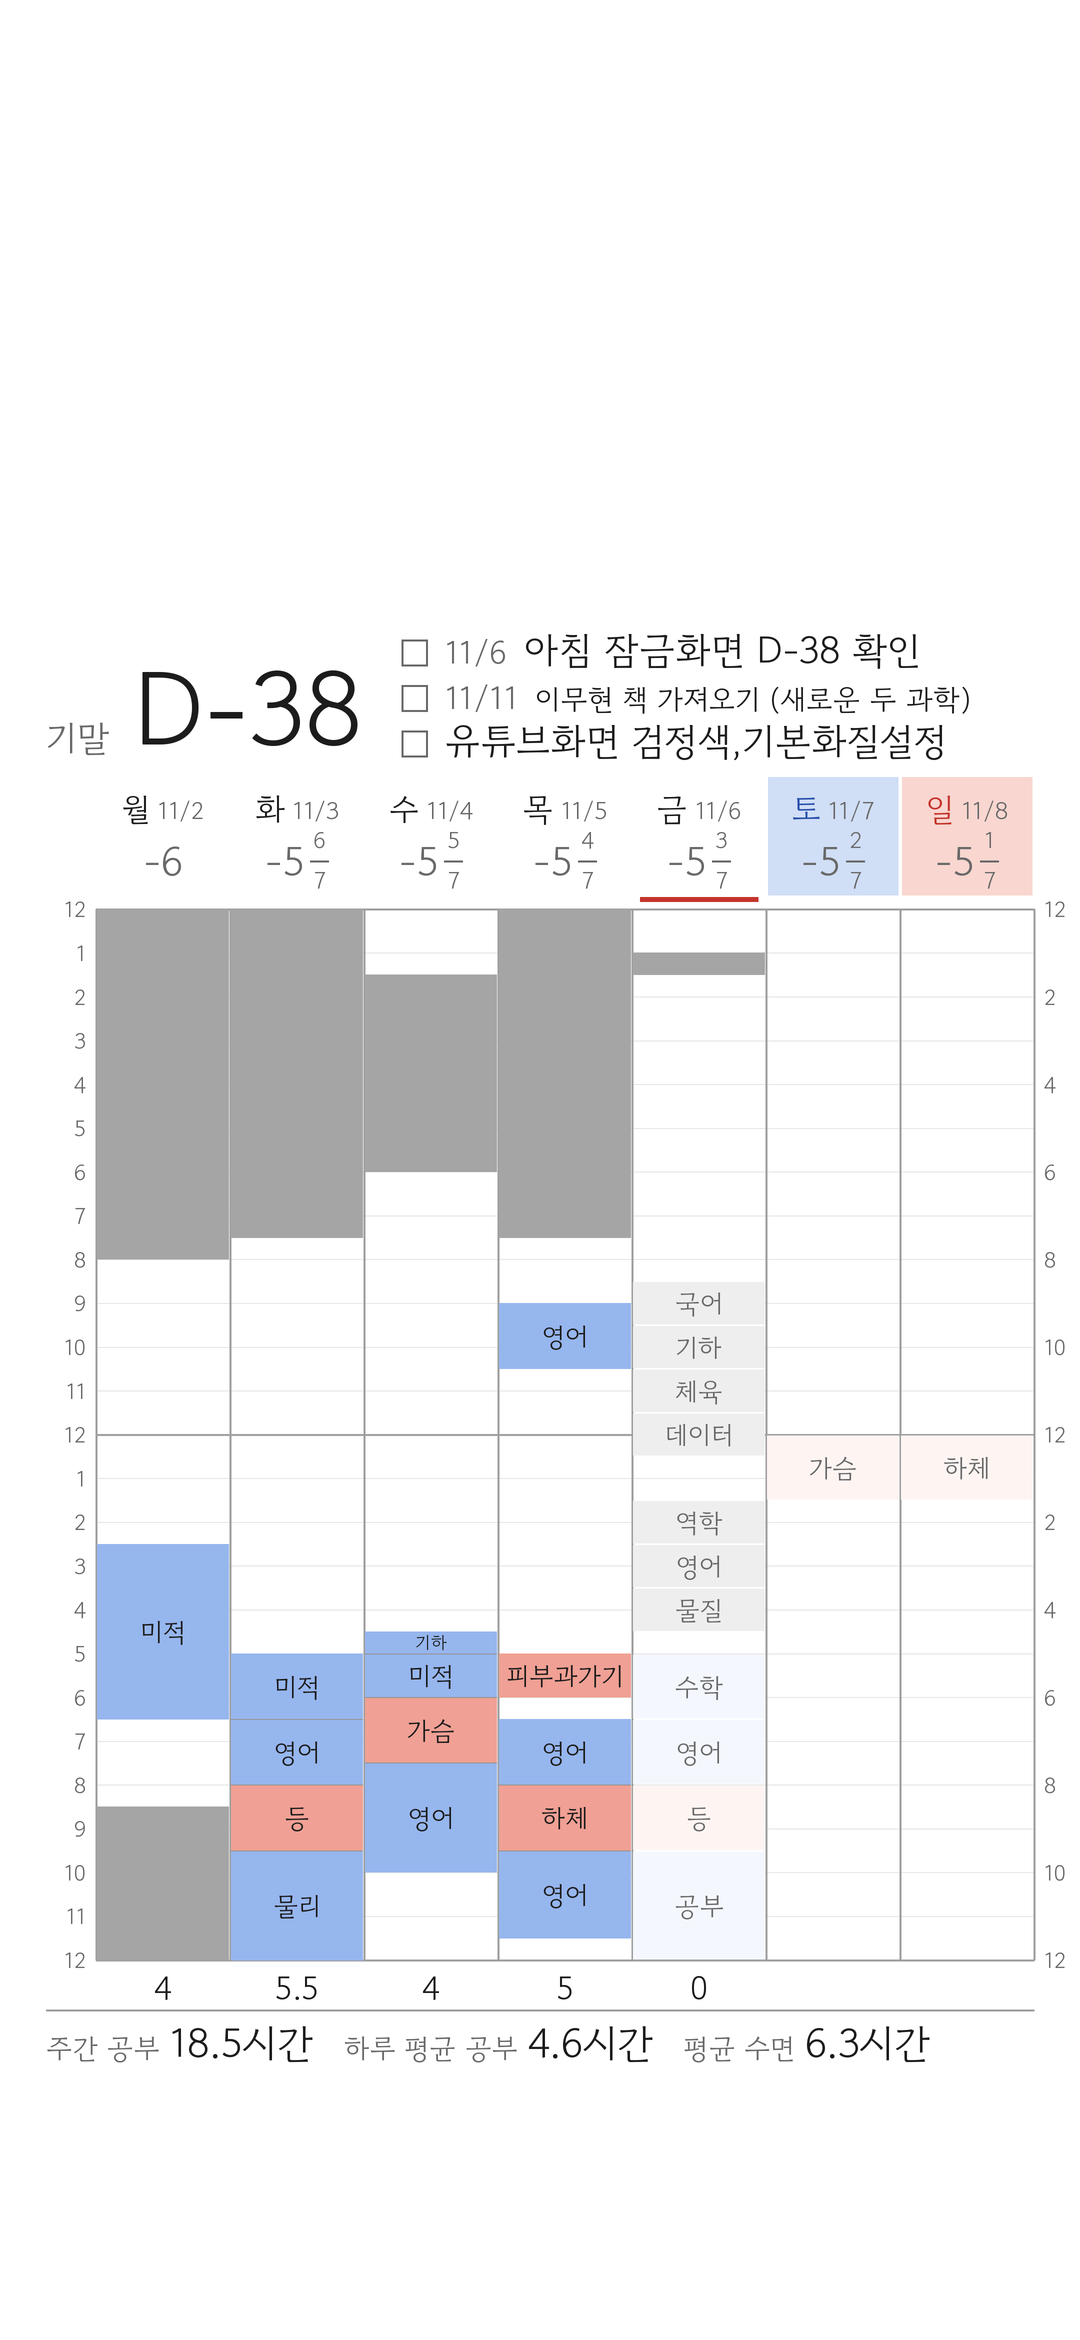
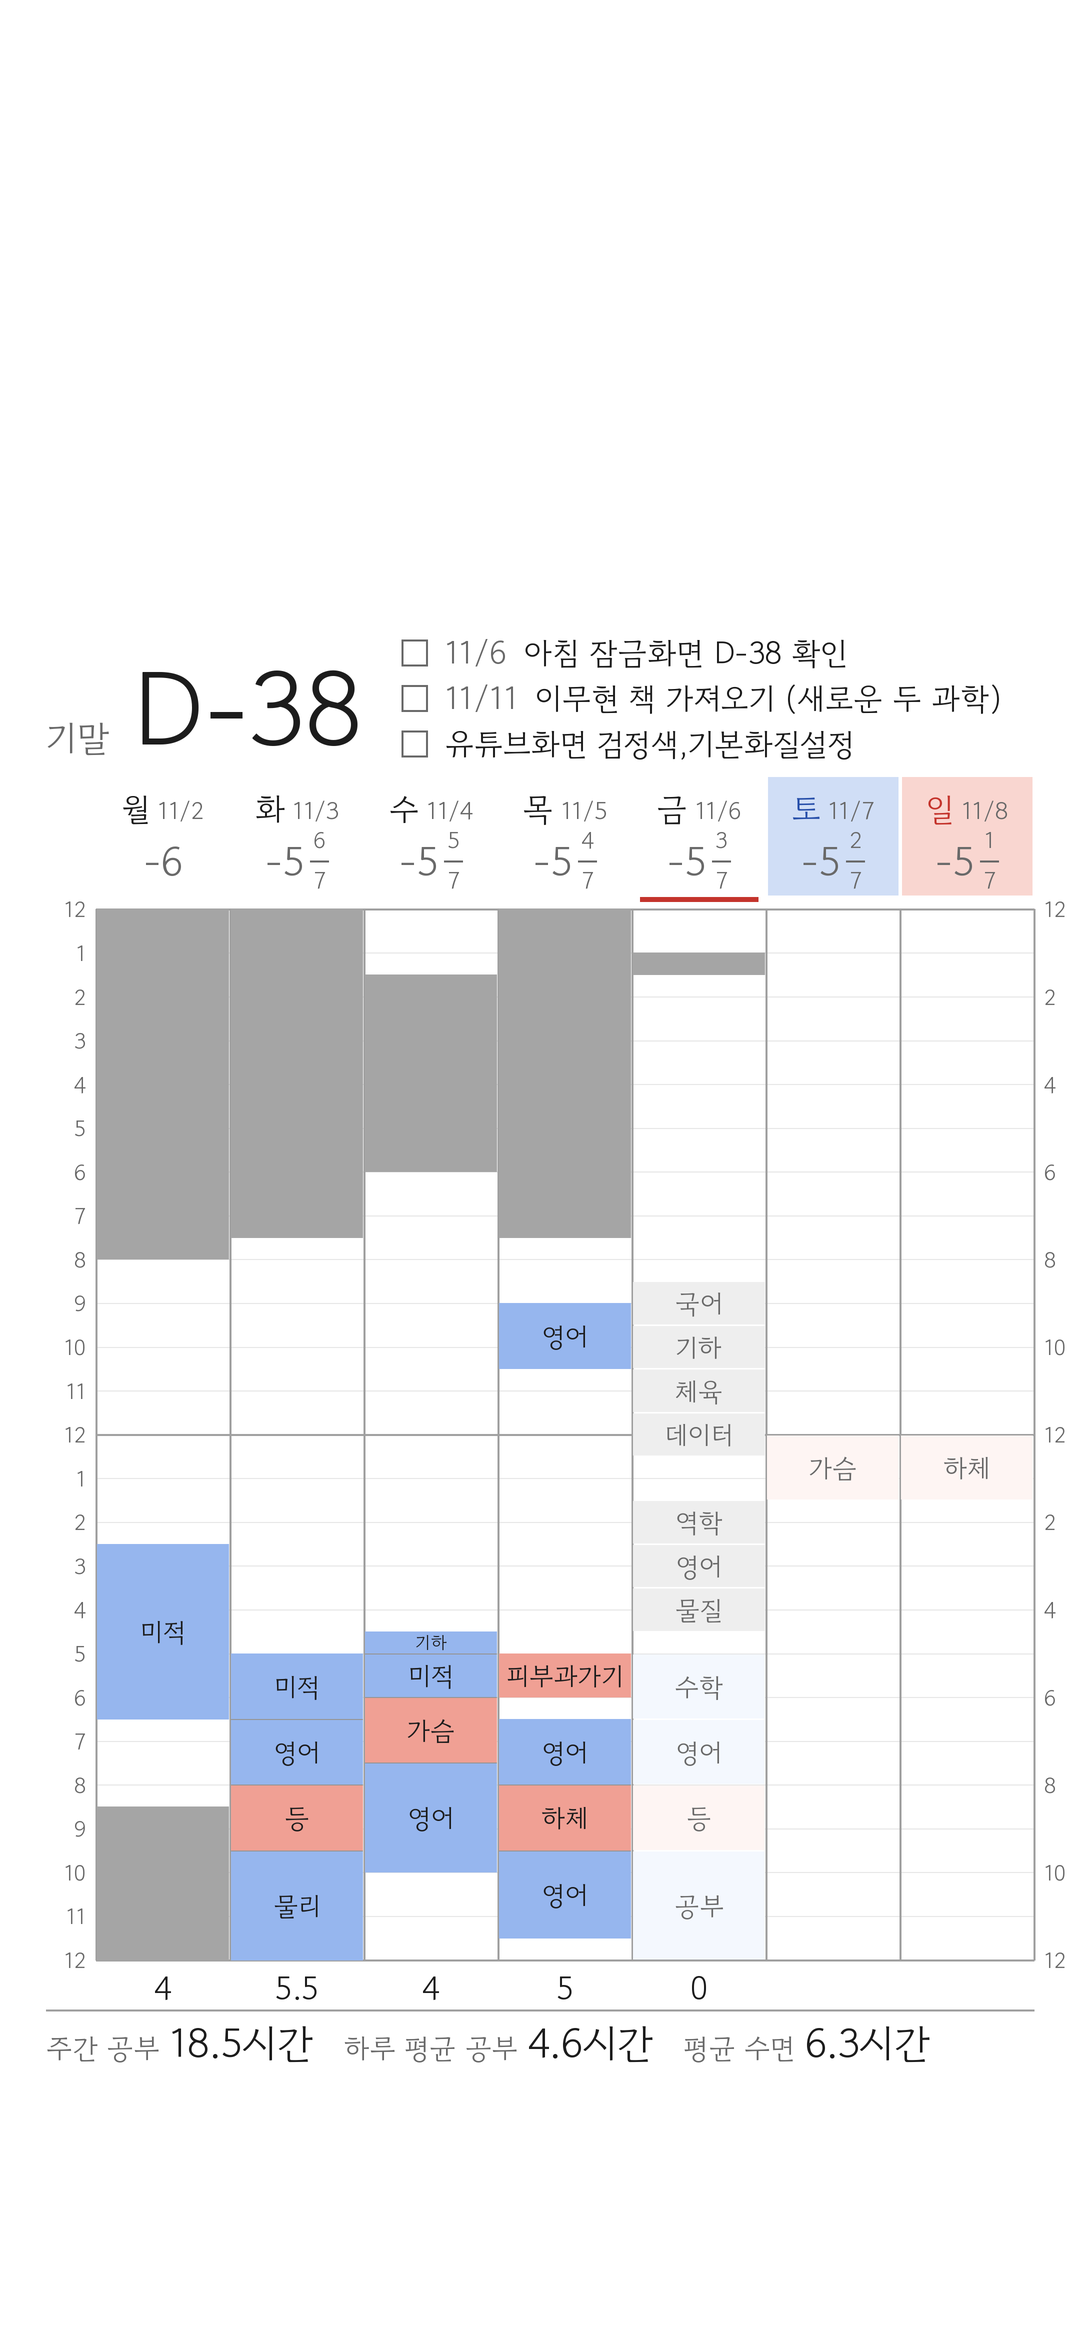
할일 글자 크기를 모든 줄 같게 통일
Claude-Session: https://claude.ai/code/session_016sgH3TiDNtMfBDqEdhxfRP

Changed region(s): [[0.4278, 0.2496, 0.9167, 0.3432]]

diff --git a/make.py b/make.py
@@ -125,7 +125,19 @@ def todo_list(g, data, today, x0, R, y, u, scale=1.0):
     fd, gap, box = font(SANS, int(27 * u * k)), 38 * u * k, 22 * u * k
     last = y + 102 * u                 # 맨 아래 줄의 글자 밑선 (3개일 때와 같은 자리)
     left = x0 + 40 * u
-    right = R - 60 * u
+    right = R - 24 * u   # 오른쪽 끝에 닿지 않을 만큼만 남긴다
+    # 모든 줄이 같은 글자 크기가 되게, 가장 긴 줄이 들어가는 크기로 통일한다.
+    def start_x(t):
+        x = left + box + 14 * u * k
+        if t["d"]:
+            d = datetime.date.fromisoformat(t["d"])
+            x += text_w(g, f"{d.month}/{d.day}", fd) + 14 * u * k
+        return x
+    size = 32 * k
+    for t in items:
+        sx = start_x(t)
+        while size > 14 and sx + text_w(g, t["t"], font(SANS, int(size * u))) > right:
+            size -= 1
     for i, t in enumerate(items):
         b = last - gap * (n - 1 - i)
         g.rectangle((left, b - box, left + box, b), outline=INK_SOFT, width=max(2, int(2 * u)))
@@ -134,11 +146,7 @@ def todo_list(g, data, today, x0, R, y, u, scale=1.0):
             d = datetime.date.fromisoformat(t["d"])
             ds = f"{d.month}/{d.day}"
             g.text((x, b), ds, font=fd, fill=INK_SOFT, anchor="ls")
-            x += text_w(g, ds, fd) + 14 * u * k
-        size = 32 * k
-        while size > 14 and x + text_w(g, t["t"], font(SANS, int(size * u))) > right:
-            size -= 1
-        g.text((x, b), t["t"], font=font(SANS, int(size * u)), fill=INK, anchor="ls")
+        g.text((start_x(t), b), t["t"], font=font(SANS, int(size * u)), fill=INK, anchor="ls")
     if more > 0:
         g.text((R, last + gap * 0.9), f"+{more}", font=fd, fill=INK_SOFT, anchor="rs")
 
